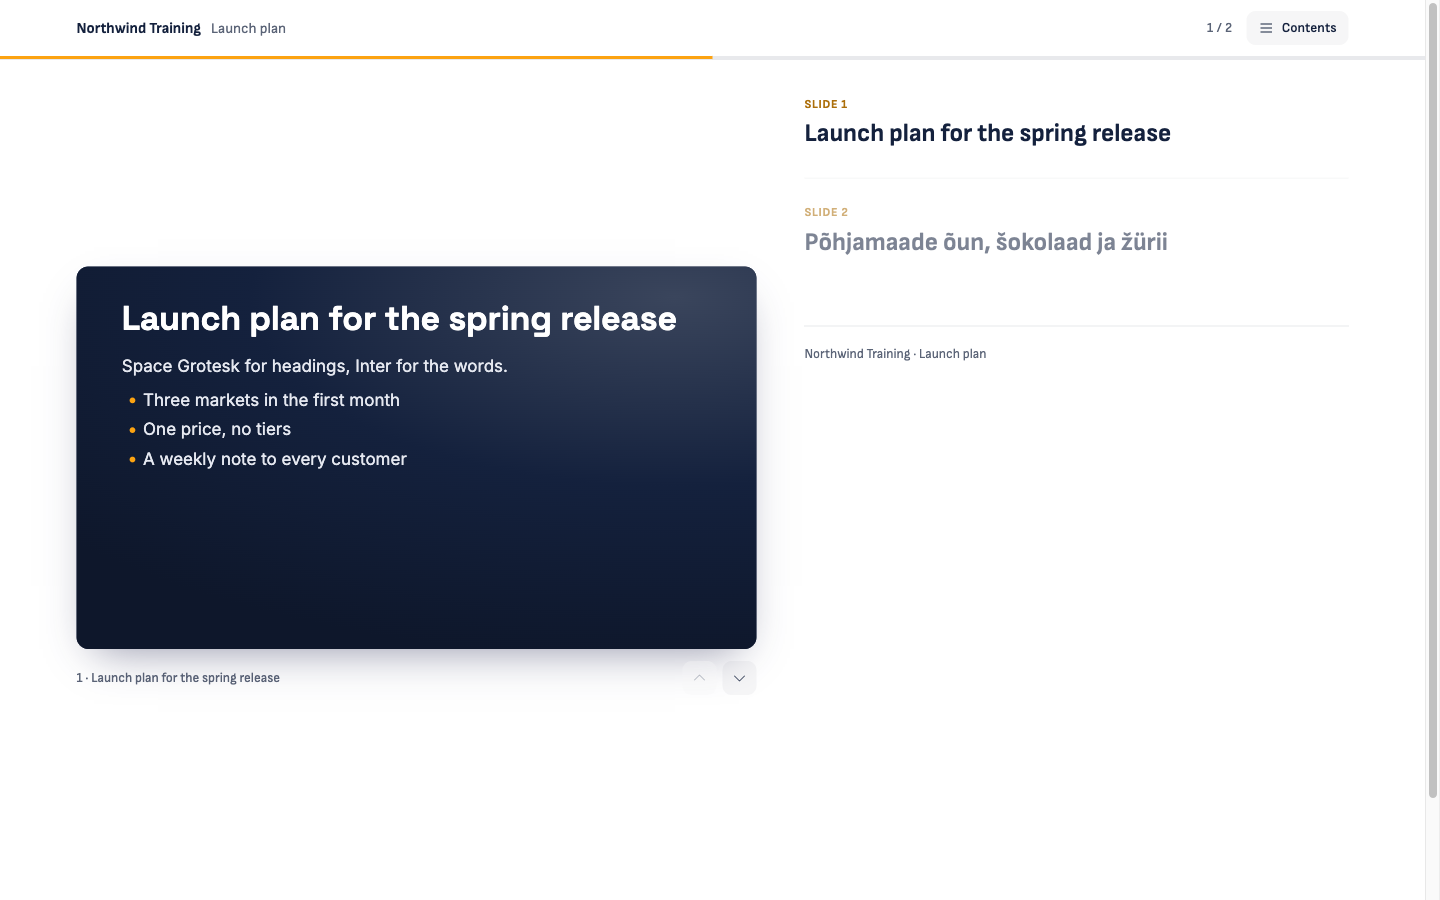
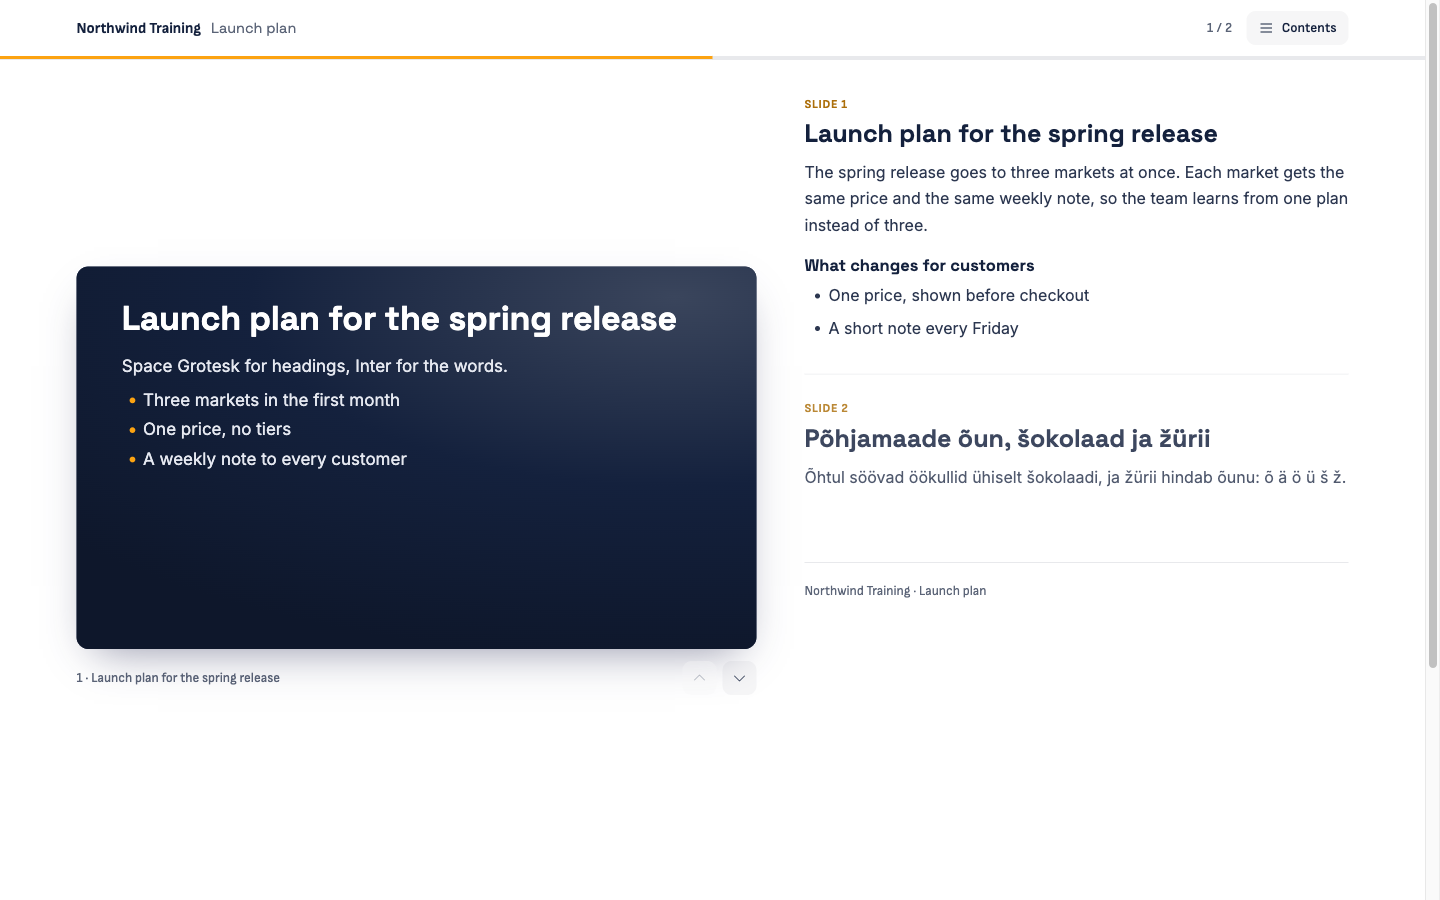
Decks page: the content wears the theme's fonts, the controls keep Sofia Sans
The Experience lead's rule (step-3-themes.md, 17 November): on a published page
the session's title, the part and preamble headings and Contents' entries take
the theme's heading font (--fh), and the handout's text its text font (--fb).
The page's own controls (client name, count, Contents' button and header,
eyebrows and labels, the caption under the slide, Copy, footer, toast) keep
Sofia Sans. Test in pageFonts.test.ts. Proof: 06 retaken with handout text,
07 the wall in Fraunces + Source Serif 4.

diff --git a/extensions/ritemark/src/decks/page/pageHtml.ts b/extensions/ritemark/src/decks/page/pageHtml.ts
@@ -306,7 +306,7 @@ svg { flex: none; }
 .top .in { max-width: 1320px; margin: 0 auto; padding: 0 24px; height: 56px; display: flex; align-items: center; gap: 14px; }
 .top .who { min-width: 0; display: flex; align-items: baseline; gap: 10px; font-family: 'Sofia Sans', sans-serif; }
 .top .who b { font: 700 15px/1.2 'Sofia Sans', sans-serif; color: var(--ink); white-space: nowrap; }
-.top .who span { font: 400 14.5px/1.2 'Sofia Sans', sans-serif; color: var(--muted); white-space: nowrap; overflow: hidden; text-overflow: ellipsis; }
+.top .who span { font: 400 14.5px/1.2 var(--fh); color: var(--muted); white-space: nowrap; overflow: hidden; text-overflow: ellipsis; }
 .top .grow { flex: 1; }
 .top .pos { font: 600 13px/1 'Sofia Sans', sans-serif; color: var(--muted); font-variant-numeric: tabular-nums; white-space: nowrap; }
 .cbtn { display: inline-flex; align-items: center; gap: 7px; height: 34px; padding: 0 12px; border-radius: 9px; background: var(--soft); color: var(--ink); font: 600 13.5px/34px 'Sofia Sans', sans-serif; white-space: nowrap; }
@@ -316,7 +316,7 @@ svg { flex: none; }
 .toc { position: fixed; z-index: 30; top: 64px; right: max(16px, calc((100vw - 1320px) / 2 + 24px)); width: min(360px, calc(100vw - 32px)); max-height: min(70vh, 560px); overflow: auto; padding: 8px; border-radius: 14px; background: #fff; box-shadow: 0 0 0 1px var(--line), 0 18px 40px -12px rgba(28,31,74,.3); }
 .toc[hidden] { display: none; }
 .toc .hd { padding: 8px 10px 6px; font: 700 11.5px/16px 'Sofia Sans', sans-serif; letter-spacing: .7px; text-transform: uppercase; color: var(--muted); }
-.toc button { display: flex; align-items: center; gap: 10px; width: 100%; min-height: 38px; padding: 6px 10px; border-radius: 8px; text-align: left; font: 500 14.5px/20px 'Sofia Sans', sans-serif; color: var(--ink); }
+.toc button { display: flex; align-items: center; gap: 10px; width: 100%; min-height: 38px; padding: 6px 10px; border-radius: 8px; text-align: left; font: 500 14.5px/20px var(--fh); color: var(--ink); }
 .toc button:hover { background: var(--soft); }
 .toc button.on { background: var(--hl); }
 .toc .n { width: 22px; flex: none; text-align: right; font-weight: 700; color: var(--muted); font-variant-numeric: tabular-nums; }
@@ -339,7 +339,8 @@ svg { flex: none; }
 .nav button { width: 34px; height: 34px; border-radius: 9px; display: grid; place-items: center; background: var(--soft); color: var(--ink); }
 .nav button:hover { background: var(--soft2); }
 .nav button[disabled] { opacity: .35; pointer-events: none; }
-.text { padding: 28px 0 55vh; min-width: 0; }
+.text { padding: 28px 0 55vh; min-width: 0; font-family: var(--fb); }
+.pre h1, .pre h2, .pre h3, .pre h4, .pre h5 { font-family: var(--fh); }
 .pre { padding: 0 0 18px; }
 .part { padding: 26px 0 18px; border-top: 1px solid var(--line); scroll-margin-top: 80px; transition: opacity .3s; }
 .text > .part:first-child, .pre + .part { border-top: 0; padding-top: 8px; }
@@ -349,9 +350,9 @@ svg { flex: none; }
 .sect > * { transition: opacity .3s; }
 .sect.dim > * { opacity: .5; }
 .part .lab { display: flex; align-items: center; gap: 8px; margin-bottom: 6px; font: 700 12px/16px 'Sofia Sans', sans-serif; letter-spacing: .7px; text-transform: uppercase; color: var(--label); }
-.part h2 { margin: 0 0 10px; font: 700 25px/1.25 'Sofia Sans', sans-serif; color: var(--ink); text-wrap: balance; }
-.part h3 { margin: 18px 0 8px; font: 700 19px/1.3 'Sofia Sans', sans-serif; color: var(--ink); }
-.part h4, .part h5 { margin: 16px 0 6px; font: 700 16.5px/1.35 'Sofia Sans', sans-serif; color: var(--ink); }
+.part h2 { margin: 0 0 10px; font: 700 25px/1.25 var(--fh); color: var(--ink); text-wrap: balance; }
+.part h3 { margin: 18px 0 8px; font: 700 19px/1.3 var(--fh); color: var(--ink); }
+.part h4, .part h5 { margin: 16px 0 6px; font: 700 16.5px/1.35 var(--fh); color: var(--ink); }
 .part p, .pre p { margin: 0 0 14px; }
 .part ol, .part ul, .pre ol, .pre ul { margin: 0 0 14px; padding-left: 24px; }
 .part li { margin-bottom: 6px; }
@@ -459,6 +460,10 @@ function pageColours(deck: PublicDeck): string {
     stepbg: '#FFFBF0',
     stepline: onWhite.thbg,
     slidebg: deck.look === 'borderless' ? 'transparent' : deck.theme.bg,
+    // Sprint 162 PR 3 (step-3-themes.md, 16 November): the content wears the theme's fonts; the page's own controls
+    // keep Sofia Sans (their rules name it).
+    fh: onWhite.fh,
+    fb: onWhite.fb,
   };
   const page = Object.entries(vars).map(([key, value]) => `--${key}:${value}`).join(';');
   const slide = Object.entries(themeStyle(deck.theme, deck.look === 'borderless')).map(([key, value]) => `${key}:${value}`).join(';');

diff --git a/extensions/ritemark/src/decks/page/pageFonts.test.ts b/extensions/ritemark/src/decks/page/pageFonts.test.ts
@@ -25,7 +25,7 @@ import { deckFontFaces } from '../../../webview/src/components/decks/theme/deckF
 import {
   PAGE_FONTS, buildDeckPage, currentPageDigest, foreignFontLine, nodeFontFs, nodePageFs, pagePathFor, removeDeckPage, removePageFonts, themeFontFiles, writeDeckPage, writePageFonts,
 } from './pageFile';
-import { PAGE_CSP, type PageAssets } from './pageHtml';
+import { PAGE_CSP, PAGE_CSS, type PageAssets } from './pageHtml';
 import { deckCounts, deckSheetRows } from './sheetRows';
 import { PRIVATE_DECK } from './testing/privateDeck';
 
@@ -143,6 +143,24 @@ async function main(): Promise<void> {
     assert.ok(!/fonts\.(googleapis|gstatic)|@import|https?:\/\/[^"'\s)]*\.woff2?/i.test(built.html), 'no font from the network');
     assert.ok(!/https?:/.test(PAGE_CSP) && PAGE_CSP.includes("font-src 'self' data: file:"), 'the page may load fonts only from beside it');
     assert.ok(built.html.includes("--s-fh:'Space Grotesk', 'Sofia Sans', sans-serif"), 'the slides draw the theme\'s headings font');
+    // The content wears the theme (step-3-themes.md, 16 November): the session's title, the part headings and Contents'
+    // entries in the heading font, the handout's text in the text font; the page's own controls keep Sofia Sans.
+    {
+      assert.ok(built.html.includes(":root{") && built.html.includes("--fh:'Space Grotesk', 'Sofia Sans', sans-serif") && built.html.includes("--fb:'Inter', 'Sofia Sans', sans-serif"), 'the page\'s --fh and --fb are the theme\'s');
+      const fontOf = (selector: string) => {
+        const rule = new RegExp(`^${selector.replace(/[.*+?^${}()|[\]\\]/g, '\\$&')} \\{([^}]*)\\}`, 'm').exec(PAGE_CSS);
+        assert.ok(rule, `a rule for ${selector}`);
+        return /font(?:-family)?:([^;]*)/.exec(rule![1])?.[1] ?? '';
+      };
+      for (const heading of ['.top .who span', '.toc button', '.part h2', '.part h3', '.part h4, .part h5', '.pre h1, .pre h2, .pre h3, .pre h4, .pre h5']) {
+        assert.match(fontOf(heading), /var\(--fh\)/, `${heading} in the theme's heading font`);
+      }
+      assert.match(fontOf('.text'), /var\(--fb\)/, 'the handout\'s text in the theme\'s text font');
+      for (const control of ['.top .who b', '.top .pos', '.cbtn', '.toc .hd', '.under', '.part .lab', '.k', '.copy', '.sect .eyebrow', '.foot', '.toast']) {
+        assert.match(fontOf(control), /'Sofia Sans'/, `${control} keeps Sofia Sans`);
+        assert.doesNotMatch(fontOf(control), /var\(--f[hb]\)/);
+      }
+    }
     const evening = await buildDeckPage({ deckPath, text: PRIVATE_DECK, theme: BUILT_IN_THEME }, assets);
     assert.ok(!evening.html.includes('fonts/'), 'a Sofia Sans theme names no font file');
 

diff --git a/docs/releases/v2.3.0/TEST-CHECKLIST.md b/docs/releases/v2.3.0/TEST-CHECKLIST.md
@@ -43,7 +43,7 @@ Add the line to your user settings, then open a deck; the [demo project](../../d
 24e. [ ] **Deck on Home.** Open a project's Home. Start something has four cards: Text, Table, Deck ("Slides and a handout", the easel) and Web page, the same size. Press Deck: a tab "Untitled" opens at once with its title selected and the card "Start this deck" under the handout's first part, as New → Deck makes it (row 14). At a usual window the four sit in one row. Make the window narrow: they go two by two, then one across with the AI column open, never three on a row and one under them. Remove the flag line from your user settings: Home has Text, Table and Web page, as in 2.2, without a reload. <sub>159, Home Deck card</sub>
 24f. [ ] **Replaced by 24g** (Sprint 162 moved Card | Borderless from Slide settings to the Theme menu). As it was: **Card or Borderless is in Slide settings.** Open a deck from the demo project. The bar shows the strip button, "Slide N of M" and the gear on the left, and Saved, Publish and Present on the right: no Card | Borderless. Press the gear: the popup's last section, under a line after Skip slide, reads THIS DECK · ALL 13 SLIDES (the deck's count), then Card | Borderless across the popup's width, with the tooltip "How the slides look: as a card, or the whole column as the stage". Choose Borderless: the slide's words are on white, and the file's front matter gains `look: borderless`; Card takes the line out. Add or delete a slide and the count follows. A click outside the popup or Esc closes it. Hide the slide (‹): the gear stays enabled and opens the same popup, for the slide the strip rings. In a deck with no slides ("No slides yet"), the gear opens the deck's section alone, headed THIS DECK · NO SLIDES YET, and Borderless writes the same line. <sub>159, the deck's look in the gear, #764</sub>
 24g. [ ] **The Theme button.** Copy a deck from the demo project aside, and put two theme files in the project's `Slide library/Themes/` (the built-in one as `Evening.theme.md`, and a copy with another name and colours, say `Paper.theme.md`). Open the deck: the bar's right side reads, in order, the Theme button (a small swatch of the theme's colours, its name, ▾), Saved, Publish, Present. Press it: LOOK with Card | Borderless, then THEME with each theme's swatch, its name and how many of the project's decks use it ("1 deck", "3 decks", "No decks"), a tick on the deck's own; a deck with no `theme:` line counts for Evening. The button and every row have a tooltip; a click outside or Esc closes the menu. Pick Paper: the slide, the strip and the wall (Present) take its colours at once, the bar says "This deck uses Paper now." with Undo, and the file's `theme:` line is the only line that changed. Press Cmd+Z (or the bar's Undo): the file is byte for byte the copy (compare them). Choose Borderless in the same menu: the file gains `look: borderless`. Open a slide's Slide settings…: no THIS DECK section, only the slide's own settings. A deck with no slides chooses its look from the same button. There is no Edit or New theme yet (PR 2), and only Sofia Sans draws until PR 3. <sub>162 PR 1</sub>
-24h. [ ] **A theme's fonts.** In a demo copy, write a theme file in `Slide library/Themes/` with `heading-font: space grotesk` and `text-font: INTER` (any case) and pick it from the Theme button: the slide's title draws in Space Grotesk and its words in Inter, in the strip, on the wall (Present) and in the presenter view's slide too. Change them to Fraunces and Source Serif 4, then IBM Plex Sans for both: each draws. Type "Põhjamaade õun, šokolaad ja žürii" on a slide: every letter draws in the theme's font. Write `heading-font: Futura`: the title draws in Sofia Sans. Turn the network off and reopen the deck: the fonts still draw. Publish the deck: a `fonts` folder appears beside the page with that theme's fonts only (two files per font, none for Sofia Sans), the sheet's What goes ends "…, and the theme's fonts.", and the page online draws them (the browser's network list shows the fonts coming from the page's own address, none from elsewhere). Cancel a first Publish: the page and the `fonts` it added go again. Fonts arrive only with the full 2.3 app. **Full build** <sub>162 PR 3</sub>
+24h. [ ] **A theme's fonts.** In a demo copy, write a theme file in `Slide library/Themes/` with `heading-font: space grotesk` and `text-font: INTER` (any case) and pick it from the Theme button: the slide's title draws in Space Grotesk and its words in Inter, in the strip, on the wall (Present) and in the presenter view's slide too. Change them to Fraunces and Source Serif 4, then IBM Plex Sans for both: each draws. Type "Põhjamaade õun, šokolaad ja žürii" on a slide: every letter draws in the theme's font. Write `heading-font: Futura`: the title draws in Sofia Sans. Turn the network off and reopen the deck: the fonts still draw. Publish the deck: a `fonts` folder appears beside the page with that theme's fonts only (two files per font, none for Sofia Sans), the sheet's What goes ends "…, and the theme's fonts.", and the page online draws them: the slides, the session's title in the top bar, the part headings and Contents' entries in the heading font, the handout's text in the text font, while the client's name, the count, Contents' button, the SLIDE eyebrows, the arrows and Copy stay in Sofia Sans (the browser's network list shows the fonts coming from the page's own address, none from elsewhere). Cancel a first Publish: the page and the `fonts` it added go again. Fonts arrive only with the full 2.3 app. **Full build** <sub>162 PR 3</sub>
 
 ## AI ready on day one
 

diff --git a/docs/development/releases/v2.3.0/sprint-162-themes/sprint-plan.md b/docs/development/releases/v2.3.0/sprint-162-themes/sprint-plan.md
@@ -40,7 +40,8 @@ PR 1 goes first, because it moves "This deck" and touches the bar. After it, PR 
 - **The fonts** are in `extensions/ritemark/media/fonts/` beside Sofia Sans, as `<Font>-latin.woff2` and `<Font>-latin-ext.woff2`: variable woff2, weight axis only, upright, in Google Fonts' latin and latin-ext cuts (Estonian's õ ä ö ü are in latin, š ž in latin-ext). They come from the `@fontsource-variable` packages, which repackage Google Fonts' `google/fonts` releases: Inter 4.001 (`@fontsource-variable/inter` 5.3.0), IBM Plex Sans 3.201 (`ibm-plex-sans` 5.3.0), Space Grotesk 2.000 (`space-grotesk` 5.3.0), Source Serif 4 4.004 (`source-serif-4` 5.3.1) and Fraunces 1.000 (`fraunces` 5.3.0). The five add 414,580 bytes. All six are SIL OFL 1.1; `media/fonts/OFL.txt` holds each one's version, files, source and copyright line (from the font file's own name table) and the licence text, Sofia Sans's too, which had no notice before.
 - **The names** (`src/decks/deckTheme.ts`, `deckFont`): a theme's `heading-font` and `text-font` match one of the six whatever their case and spacing; any other name, or none, draws in Sofia Sans. A slide's `--s-fh` and `--s-fb` are the font, then Sofia Sans (while it loads, or if its file is missing), then its kind (`sans-serif` or `serif`). The theme file keeps the name as written.
 - **The slide, the strip, the wall, the presenter view and the Slide library** draw them through `@font-face` rules on the files beside `webview.js` (`webview/src/components/decks/theme/deckFonts.ts`, installed once in `main.tsx`), not inlined into `webview.js` (#107): a rule loads its file only when a slide uses its font. A legacy-layout slide now measures its fit again when a font loads or the theme's fonts change, as a block slide already did.
-- **The published page** carries Sofia Sans inline as before (its own words use it) and the theme's other fonts as files in a `fonts` folder beside the page, `fonts/<Font>-<version>-<part>.woff2`, written just before the page, only the theme's fonts, and once for all the decks in a folder. 2.2's gather finds them in the page's style and sends them with it. The page's CSP reads `font-src 'self' data: file:`; it loads no font from anywhere else. A name in `fonts/` taken by another file, or a `fonts` that is a file or a link, stops Publish in one line and is never touched; the version in the name means a later font release never meets an older file. A cancelled first Publish (or a page that couldn't be written) takes back the fonts it wrote, unless another page of Ritemark's in the folder names them or another Publish in the window is using them, and the `fonts` folder only if it made it. The page's digest counts the font files it names, so a page made before the fonts could go reads "Published · changed". The sheet's What goes ends "…, and the theme's fonts." when files go.
+- **The published page's content wears the theme** (the Experience lead, 17 November; step-3-themes.md): the session's title in the top bar, the part headings, the preamble's headings and Contents' entries take the heading font (`--fh`), the handout's text the text font (`--fb`); the page's own controls (the client's name, the count, Contents' button and header, the eyebrows and labels, the arrows' caption, Copy, the footer and the toast) keep Sofia Sans. The editor's handout keeps the editor's own type.
+- **The published page** carries Sofia Sans inline as before (its controls use it) and the theme's other fonts as files in a `fonts` folder beside the page, `fonts/<Font>-<version>-<part>.woff2` (this place and these names approved by the Experience lead, 17 November), written just before the page, only the theme's fonts, and once for all the decks in a folder. 2.2's gather finds them in the page's style and sends them with it. The page's CSP reads `font-src 'self' data: file:`; it loads no font from anywhere else. A name in `fonts/` taken by another file, or a `fonts` that is a file or a link, stops Publish in one line and is never touched; the version in the name means a later font release never meets an older file. A cancelled first Publish (or a page that couldn't be written) takes back the fonts it wrote, unless another page of Ritemark's in the folder names them or another Publish in the window is using them, and the `fonts` folder only if it made it. The page's digest counts the font files it names, so a page made before the fonts could go reads "Published · changed". The sheet's What goes ends "…, and the theme's fonts." when files go.
 - **Delivery:** the font files reach people only with a full (shell) release, which 2.3 is. `media/fonts/*` is outside what an extension release ships, so `scripts/release-extension-preflight.sh` lists the ten new font files and `OFL.txt` as unshipped and stops unless `--allow-unshipped`. Code from this PR on an app without the files draws Sofia Sans and writes no font files.
 - **Not in PR 3:** the two font pickers in the theme's tab, which come once PR 2 is on main.
 

diff --git a/docs/CHANGELOG.md b/docs/CHANGELOG.md
@@ -13,7 +13,7 @@ and this project adheres to [Semantic Versioning](https://semver.org/spec/v2.0.0
 
 #### Added
 - **A deck's look is one button on its bar.** The Theme button shows the deck's theme as a small swatch and its name ("Evening ▾"). Its menu has Card | Borderless and the project's themes, each with how many decks use it. Pick one and the deck changes at once; the bar says so, with Undo, and Cmd+Z takes it back too. Card | Borderless is no longer in a slide's settings.
-- **Six fonts for a deck's theme.** A theme's headings and text can be Sofia Sans, Inter, IBM Plex Sans, Space Grotesk, Source Serif 4 or Fraunces, written in the theme file as `heading-font:` and `text-font:` (any case). They come with Ritemark, so they draw without a network, Estonian letters too (õ ä ö ü š ž), on the slide, the strip, the wall, the presenter view and the published page. A font name that isn't one of the six draws in Sofia Sans. A published page carries its theme's fonts as files in a `fonts` folder beside it and loads none from the web. The fonts arrive with the full 2.3 app, not with an extension update. All six are under the SIL Open Font License, whose text and copyright lines are in `media/fonts/OFL.txt`.
+- **Six fonts for a deck's theme.** A theme's headings and text can be Sofia Sans, Inter, IBM Plex Sans, Space Grotesk, Source Serif 4 or Fraunces, written in the theme file as `heading-font:` and `text-font:` (any case). They come with Ritemark, so they draw without a network, Estonian letters too (õ ä ö ü š ž), on the slide, the strip, the wall, the presenter view and the published page. A font name that isn't one of the six draws in Sofia Sans. On a published page the session's title, the part headings and the Contents entries take the heading font and the handout's text the text font, while the page's own controls stay in Sofia Sans; the page carries its theme's fonts as files in a `fonts` folder beside it and loads none from the web. The fonts arrive with the full 2.3 app, not with an extension update. All six are under the SIL Open Font License, whose text and copyright lines are in `media/fonts/OFL.txt`.
 
 #### Fixed
 - **A page that failed to load opens when you open its file again (#710).** If a web page's `.html` file was missing when Ritemark opened, its tab showed "Failed to Load Page", and opening the file again from Documents once it was back only brought that failed tab forward. Now opening the file loads the page again in the same tab, as the bar's Reload does. A page that loaded fine is only brought forward, as before.
